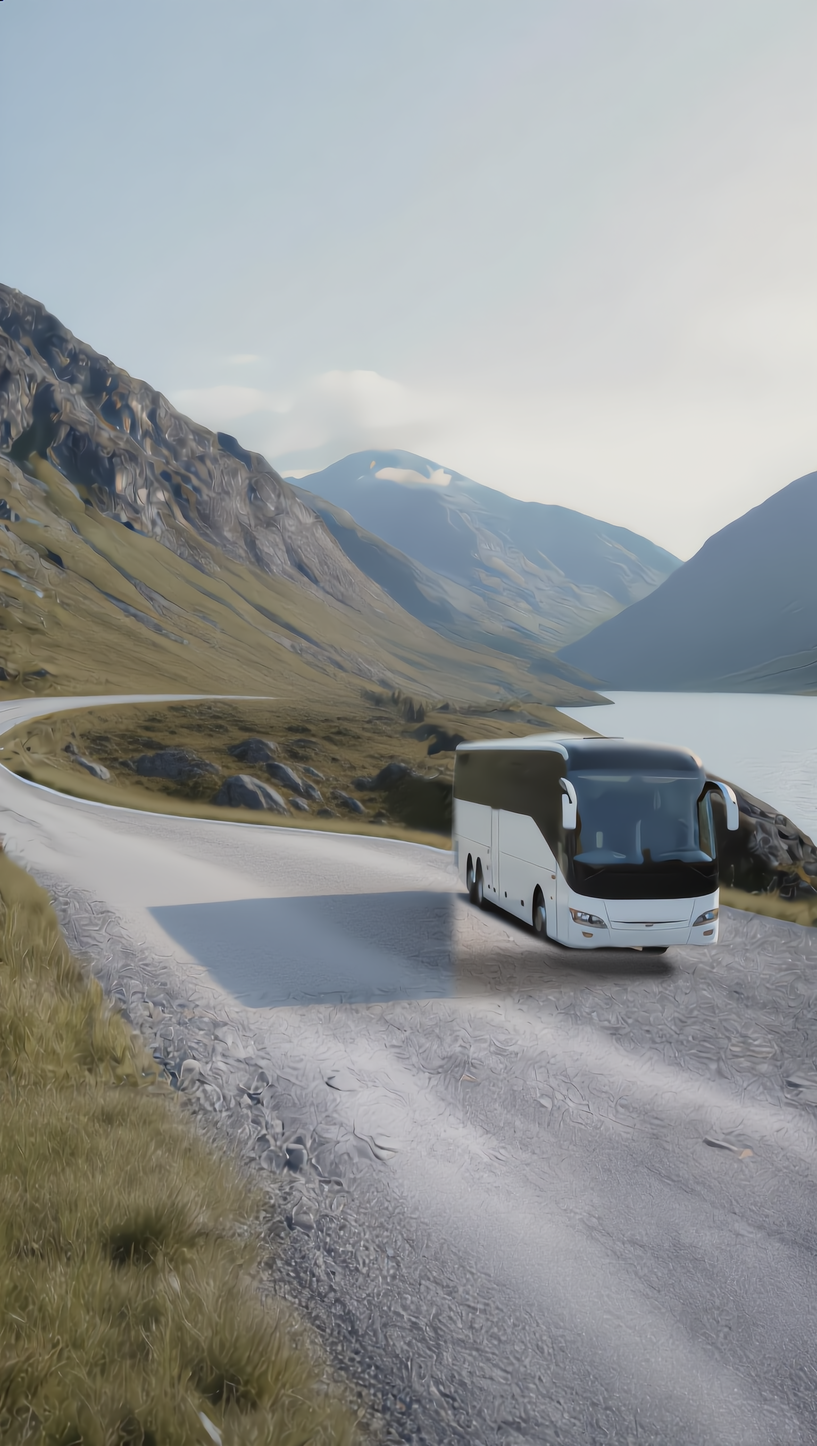
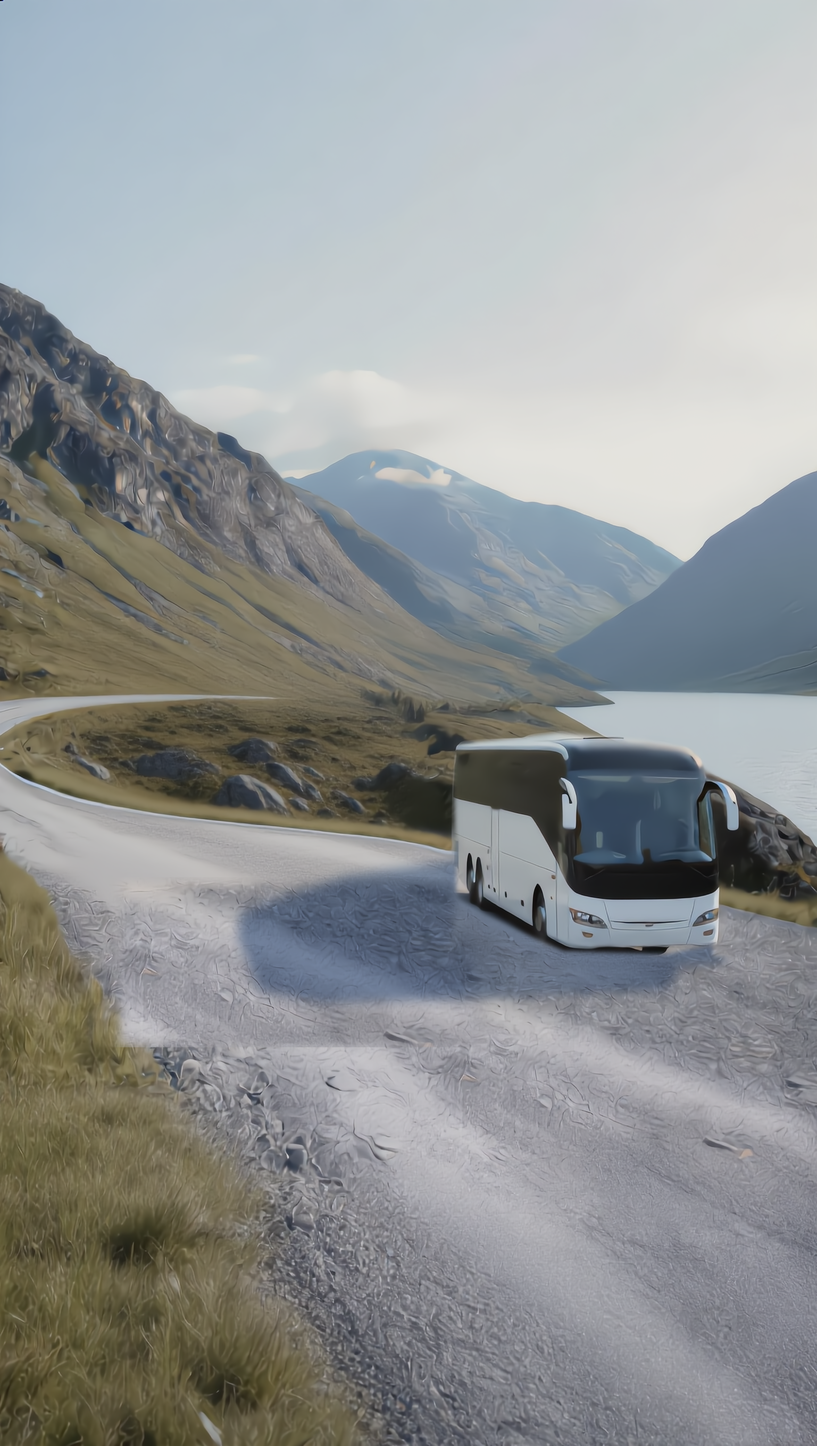
Redo bus shadow and headlights in the vertical /choose/ scene
The previous fix still showed the AI-drawn rectangular bus shadow (flat, no
gravel texture, hard edge at the bus rear) and a glow patch next to the right
headlight.

- bus shadow is now drawn: one soft bluish band (shape and tint taken from
  intro-mobile-photo, ratio ~0.60/0.69/0.81) plus a contact shadow under the
  bus, identical in the common frame and the bus-only layer
- bus-only layer: where the truck stood, the road comes from the empty road
  of intro-mobile-only-truck (same distance, real gravel) instead of the AI
  shadow rectangle; the truck-zone mask is one continuous shape (the old
  two-part mask let truck bumper bits through)
- bus headlights: only the lamp glow is transferred, clipped at the bus edge;
  the light pool on the road is drawn with soft ellipses
- build.js appends ?v=<content hash> to /choose/ images so rebuilt frames
  are never served from the browser cache

Claude-Session: https://claude.ai/code/session_01QnLGxmMJTS6H4BxBkXsJMw

Changed region(s): [[0.125, 0.5938, 0.875, 0.75]]

diff --git a/build.js b/build.js
@@ -1,5 +1,6 @@
 // Сборка сайта: node build.js  →  dist/pl, dist/pt, dist/ru, dist/en
 const fs = require('fs');
+const crypto = require('crypto');
 
 const SITE_URL = 'https://example.ie';   // заменить на настоящий домен
 const PHONE = '353000000000';            // для WhatsApp и звонков: только цифры, без + и пробелов
@@ -105,7 +106,11 @@ const sounds = Object.fromEntries(Object.entries(SOUND_FILES)
   .map(([k, f]) => [k, `media/${f}`]));
 const chooseHtml = fs.readFileSync('dist/choose/index.html', 'utf8');
 if (!chooseHtml.includes('data-sounds="{}"')) throw new Error('choose/index.html: нет атрибута data-sounds="{}"');
-fs.writeFileSync('dist/choose/index.html', chooseHtml.replace('data-sounds="{}"', `data-sounds="${esc(JSON.stringify(sounds))}"`));
+// ?v=<хэш содержимого> у картинок: поменяли кадр — меняется ссылка, браузер не покажет старый из кэша
+const stamp = (file) => crypto.createHash('md5').update(fs.readFileSync(file)).digest('hex').slice(0, 8);
+fs.writeFileSync('dist/choose/index.html', chooseHtml
+  .replace('data-sounds="{}"', `data-sounds="${esc(JSON.stringify(sounds))}"`)
+  .replace(/img\/[\w-]+\.webp/g, (src) => `${src}?v=${stamp(`dist/choose/${src}`)}`));
 
 // Корень: отправляет на язык браузера, без JS показывает ссылки
 const dirs = Object.keys(LANGS);

diff --git a/CLAUDE.md b/CLAUDE.md
@@ -113,12 +113,13 @@
   остальные слои `choose.js` грузит из `data-h` / `data-v`. Поворот телефона переключает набор на лету.
   Наведения на телефоне нет: нажатие на машину сразу запускает сценарий.
 - Вертикальные исходники: `intro-mobile-only-truck.png`, `intro-mobile-only-bus.png` (совпадают между собой),
-  `intro-mobile-photo.png` (общий кадр 832×1472, подогнан масштабом и сдвигом). Скрипт собирает общий кадр из
-  «только фуры» + кузова автобуса (по контуру) из «только автобуса»; тень автобуса (диагональная полоса под передом
-  фуры) переносится с исходного общего кадра как затемнение дороги — в «только автобусе» нейросеть нарисовала её
-  прямоугольником без фактуры. В слое «только автобус» дорога слева от автобуса — из «только автобуса» целиком.
-  Свет фар переносится из горизонтальных слоёв (своих версий с фарами нет), справа от передней части автобуса
-  обрезан. Результат — `intro-mobile-*-updated.png`.
+  `intro-mobile-photo.png` (общий кадр 832×1472 — по нему сняты форма и цвет тени автобуса). Тень автобуса
+  нейросеть в «только автобусе» нарисовала плоским прямоугольником без фактуры, поэтому скрипт рисует её заново:
+  мягкая синеватая полоса + контактная тень под днищем, одинаковая в общем кадре и в слое «только автобус».
+  На месте фуры в слое «только автобус» дорога взята из «только фуры» правее и ниже (тот же гравий). Свечение
+  фар перенесено из горизонтальных слоёв (своих версий с фарами нет), пятно света перед автобусом нарисовано
+  мягкими эллипсами. Результат — `intro-mobile-*-updated.png`.
+- `build.js` дописывает к картинкам `/choose/` `?v=<хэш>`: после пересборки кадров браузер не покажет старые из кэша.
 - Звук: `src/choose/media/engine-truck.mp3` и `engine-bus.mp3`. Подключаются, только если файл есть: `build.js`
   записывает найденные в `data-sounds`. Играют только по клику/нажатию; при `prefers-reduced-motion` — без звука
   и без плавных переходов.
